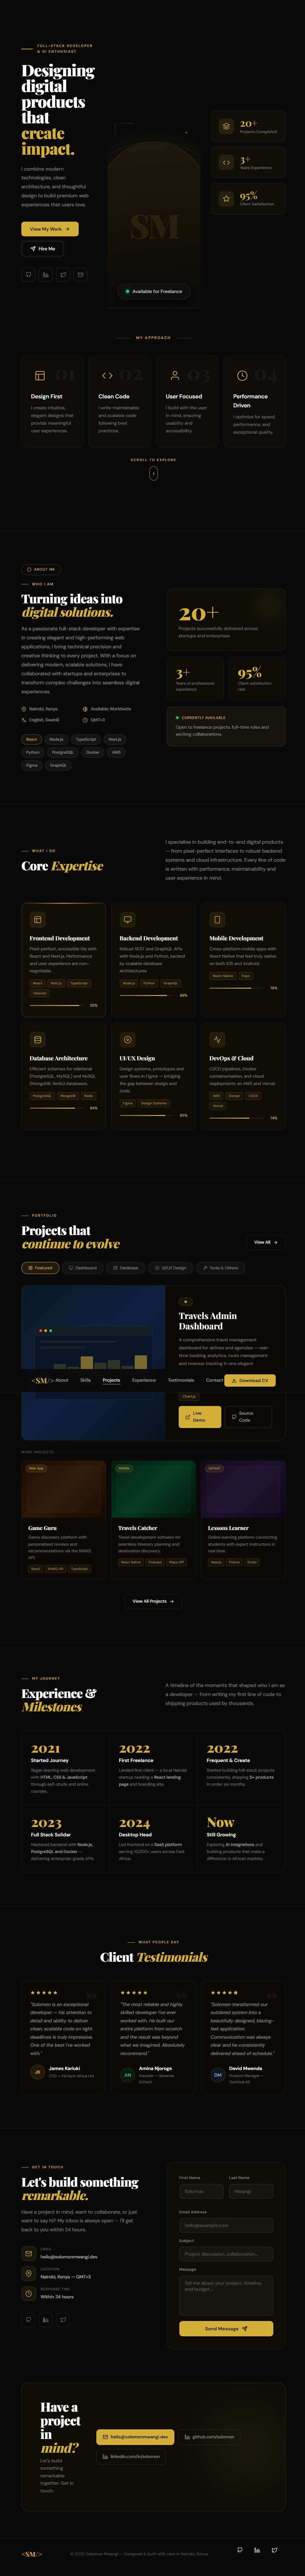
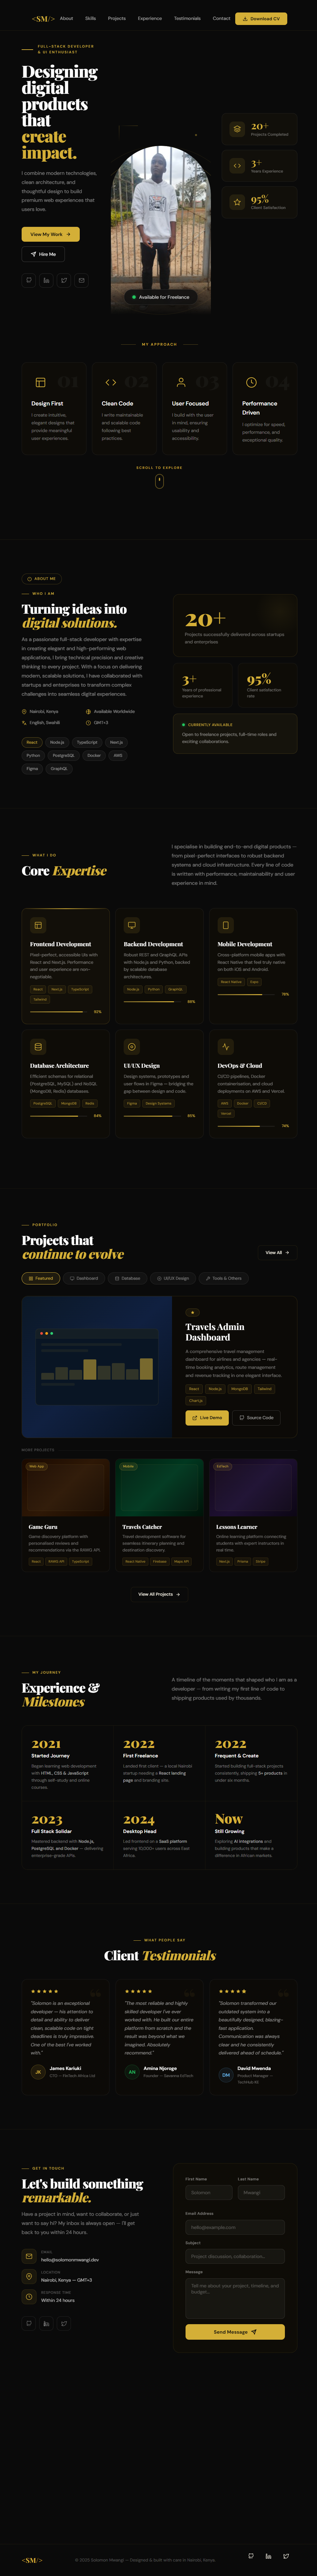
docs: update README for clarity and formatting improvements

diff --git a/frontend/src/components/sections/Hero.jsx b/frontend/src/components/sections/Hero.jsx
@@ -1,4 +1,5 @@
 import { useEffect, useRef } from 'react'
+import heroPhoto from '../../assets/images/hero-photo.jpg'
 import '../../styles/components/Hero.css'
 
 export default function Hero() {
@@ -73,7 +74,7 @@ export default function Hero() {
         <div className="cir cir-6"></div>
         <div className="cir cir-7"></div>
         <div className="h-photo">
-          <div className="h-mono">SM</div>
+          <img src={heroPhoto} alt="Portrait" className="h-photo-img" />
         </div>
         <div className="h-avail">
           <span className="h-avail-dot"></span>